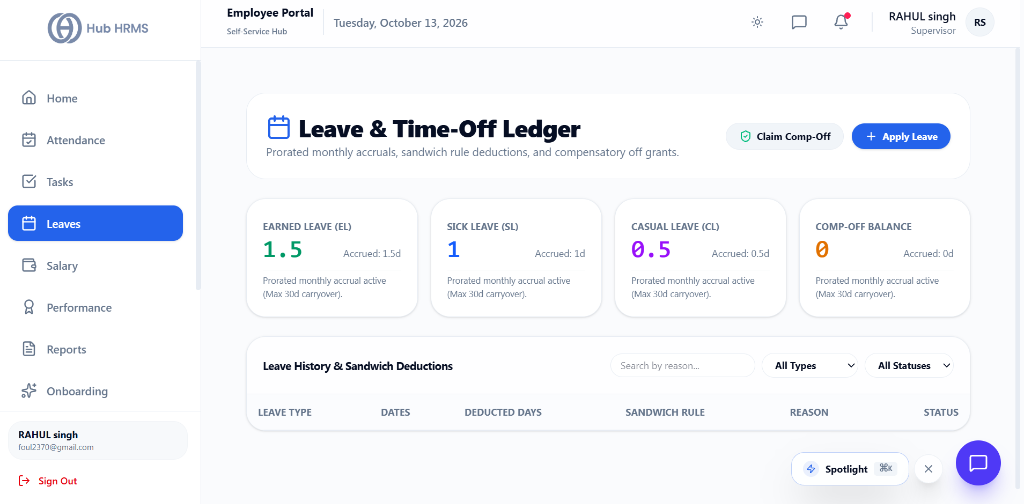
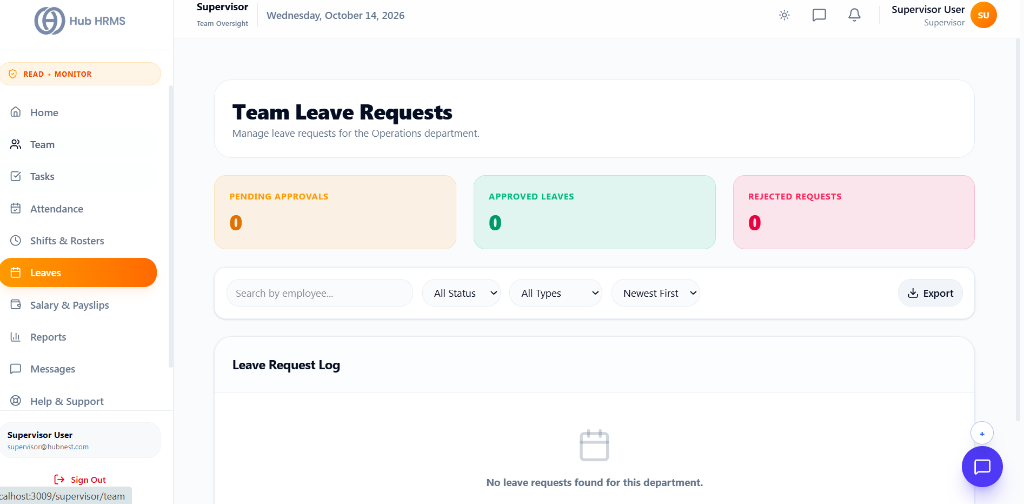
docs(hrms): add authentic supervisor screenshots for leaves, salary, reports, messages, and support

diff --git a/docs/hrms-supervisor/messages.md b/docs/hrms-supervisor/messages.md
@@ -13,10 +13,7 @@ The **Messages & Collaboration** module connects Operations Supervisors directly
 
 Below is the live console layout of the **Supervisor Messages & HubMeet Hub**:
 
-<!-- UI SCREENSHOT PLACEHOLDER: supervisor_messages.png (Width 100%) - To be added at the end -->
-> 📸 **[UI Screenshot: Supervisor Real-Time Messages & HubMeet Collaboration Console]**  
-> *Target Asset Location:* `docs/assets/images/HRMS/Supervisor_/messages.png`  
-> *(To be added at the end with live screenshots)*
+![Supervisor Real-Time Messages & HubMeet Collaboration Console](../assets/images/HRMS/Supervisor_/messages.png)
 
 ---
 

diff --git a/docs/hrms-supervisor/reports.md b/docs/hrms-supervisor/reports.md
@@ -13,10 +13,7 @@ The **Team Reports & Analytics** module delivers comprehensive, data-driven oper
 
 Below is the live console layout of the **Supervisor Team Reports & Analytics** dashboard:
 
-<!-- UI SCREENSHOT PLACEHOLDER: supervisor_reports.png (Width 100%) - To be added at the end -->
-> 📸 **[UI Screenshot: Supervisor Team Reports & Analytics Console]**  
-> *Target Asset Location:* `docs/assets/images/HRMS/Supervisor_/reports.png`  
-> *(To be added at the end with live screenshots)*
+![Supervisor Team Reports & Analytics Console](../assets/images/HRMS/Supervisor_/reports.png)
 
 ---
 

diff --git a/docs/hrms-supervisor/support.md b/docs/hrms-supervisor/support.md
@@ -13,10 +13,7 @@ The **Help & Support Desk** connects Operations Supervisors directly with the en
 
 Below is the live console layout of the **Supervisor Help & Support Desk**:
 
-<!-- UI SCREENSHOT PLACEHOLDER: supervisor_support.png (Width 100%) - To be added at the end -->
-> 📸 **[UI Screenshot: Supervisor Help & Support Desk]**  
-> *Target Asset Location:* `docs/assets/images/HRMS/Supervisor_/support.png`  
-> *(To be added at the end with live screenshots)*
+![Supervisor Help & Support Desk Console](../assets/images/HRMS/Supervisor_/support.png)
 
 ---
 
